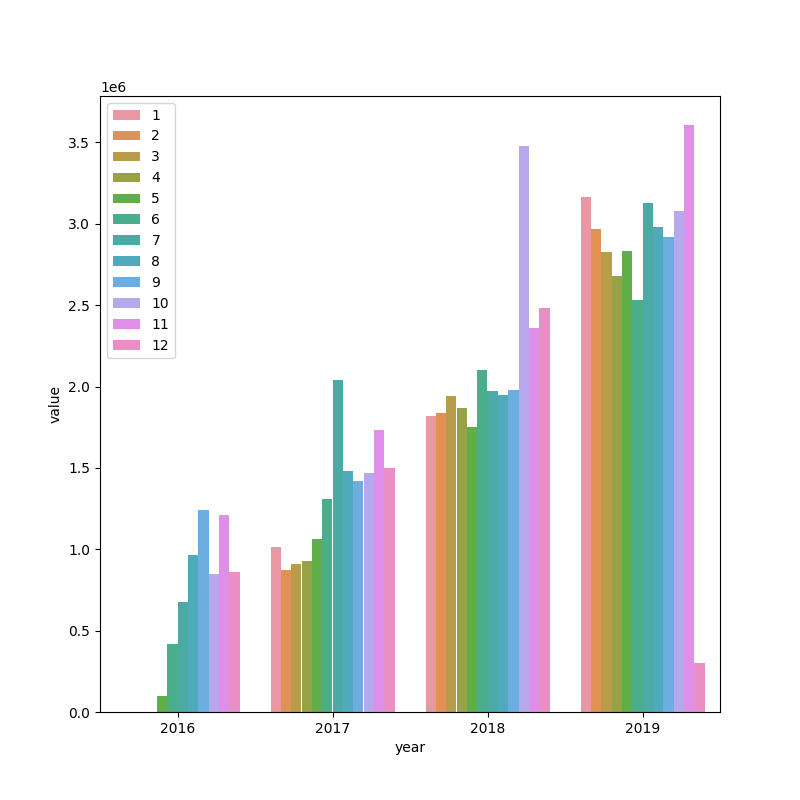
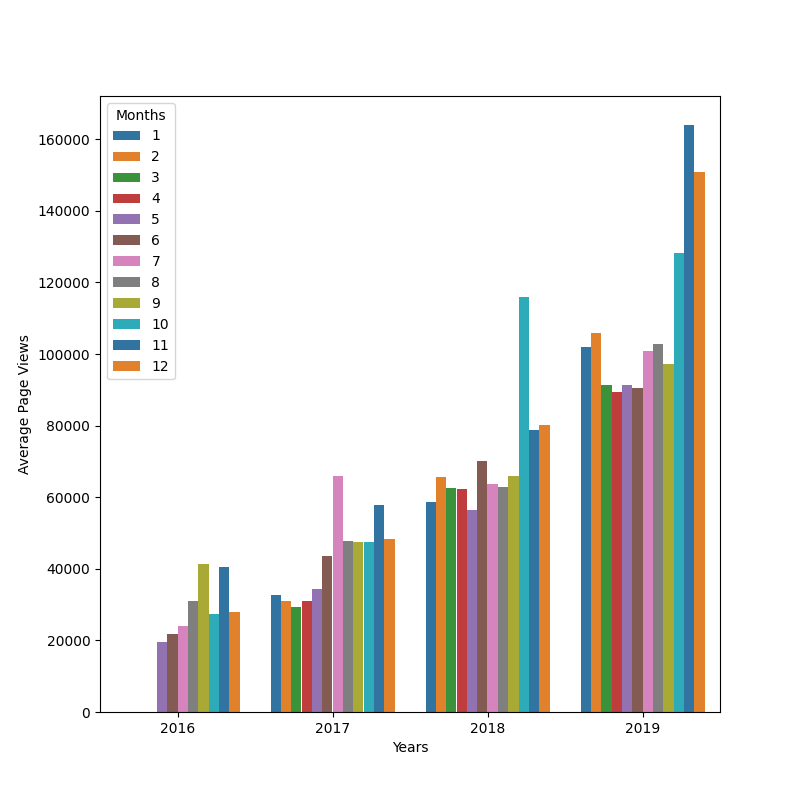
Fix: bar chart from sum to mean

diff --git a/page-view-time-series-visualizer/time_series_visualizer.py b/page-view-time-series-visualizer/time_series_visualizer.py
@@ -31,15 +31,17 @@ def draw_bar_plot():
     df_bar["year"] = pd.DatetimeIndex(df_bar.index).year
     df_bar["month"] = pd.DatetimeIndex(df_bar.index).month
     df_bar = df_bar.groupby(["year", "month"], as_index=False).agg(
-        {"value": pd.Series.sum})
+        {"value": pd.Series.mean})
     print(df_bar.head())
     # Draw bar plot
     plt.figure(figsize=(8, 8))
 
-    fig = sns.barplot(data=df_bar, x=df_bar.year,
-                      y=df_bar.value, hue=df_bar.month)
+    fig = sns.barplot(data=df_bar, x=df_bar.year, y=df_bar.value,
+                      hue=df_bar.month, palette=sns.color_palette("tab10"))
 
-    plt.legend(loc="upper left")
+    plt.xlabel("Years")
+    plt.ylabel("Average Page Views")
+    plt.legend(loc="upper left", title="Months")
 
     # Save image and return fig (don't change this part)
     fig.figure.savefig('bar_plot.png')
